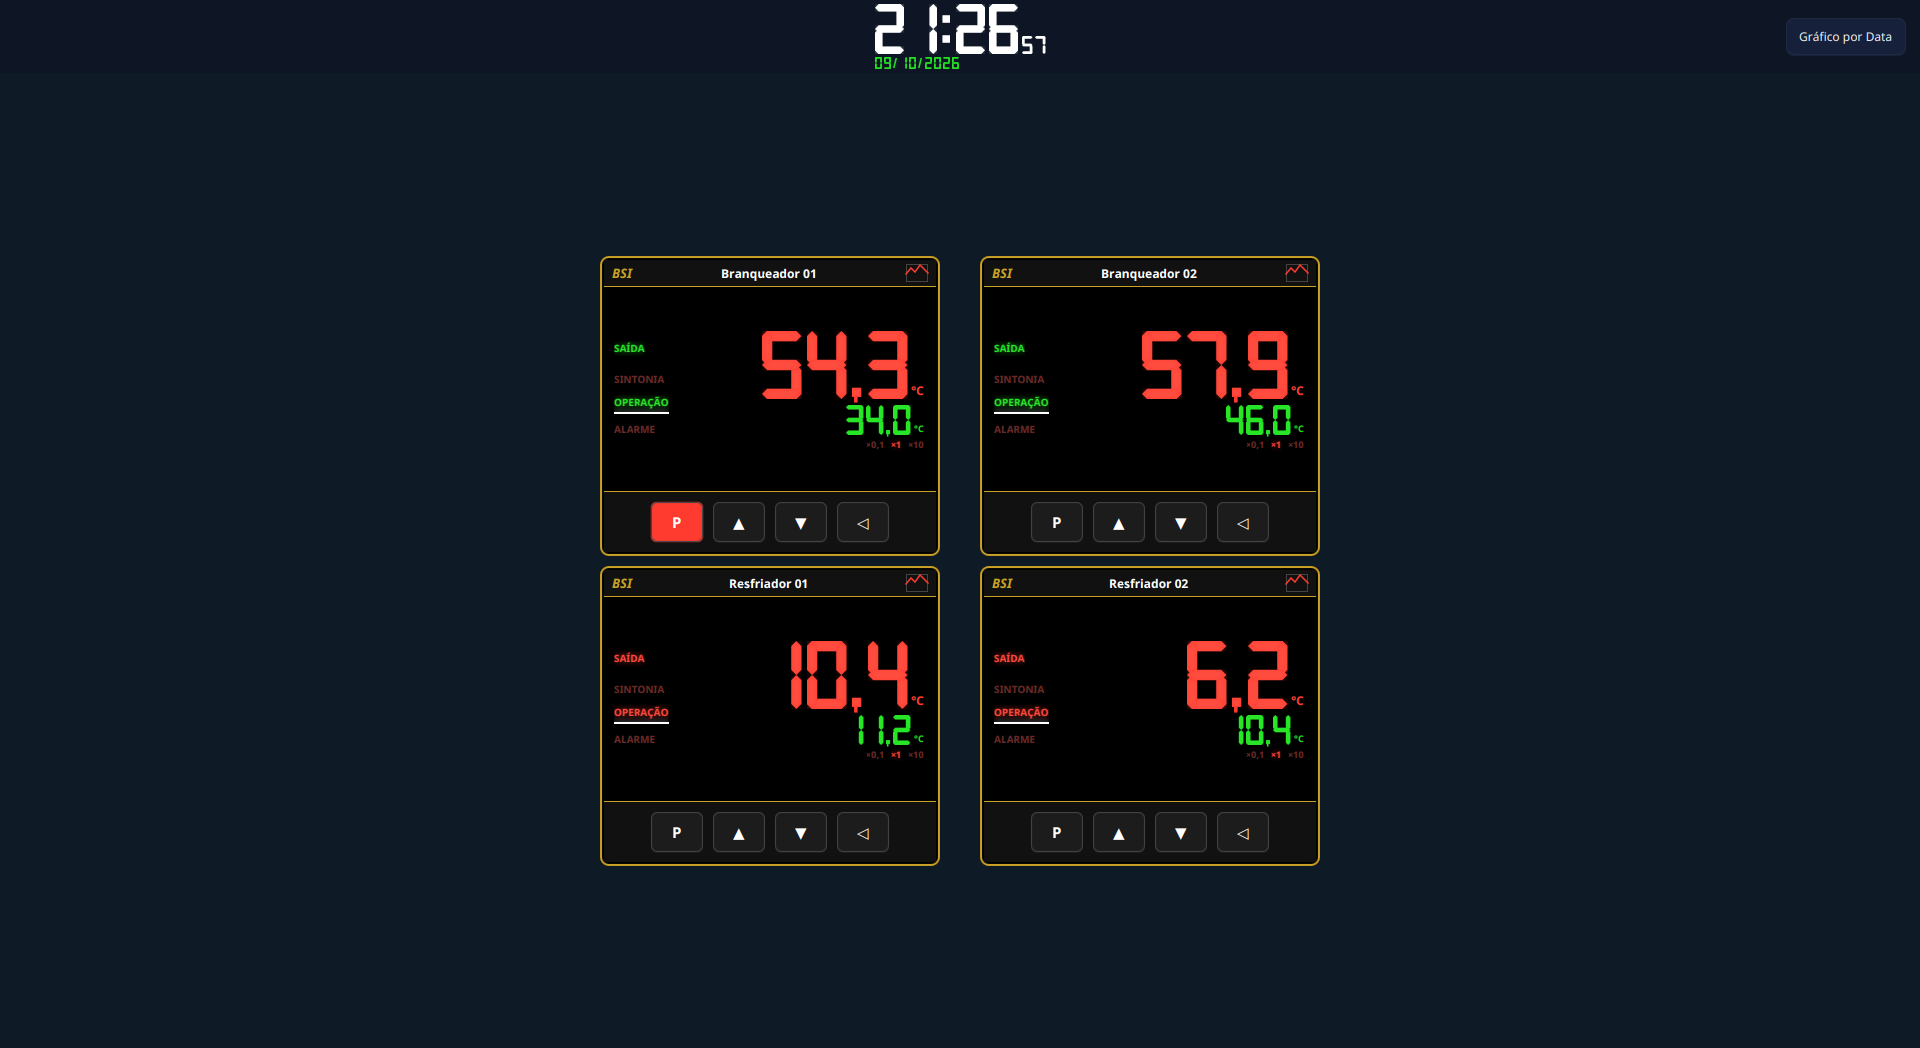
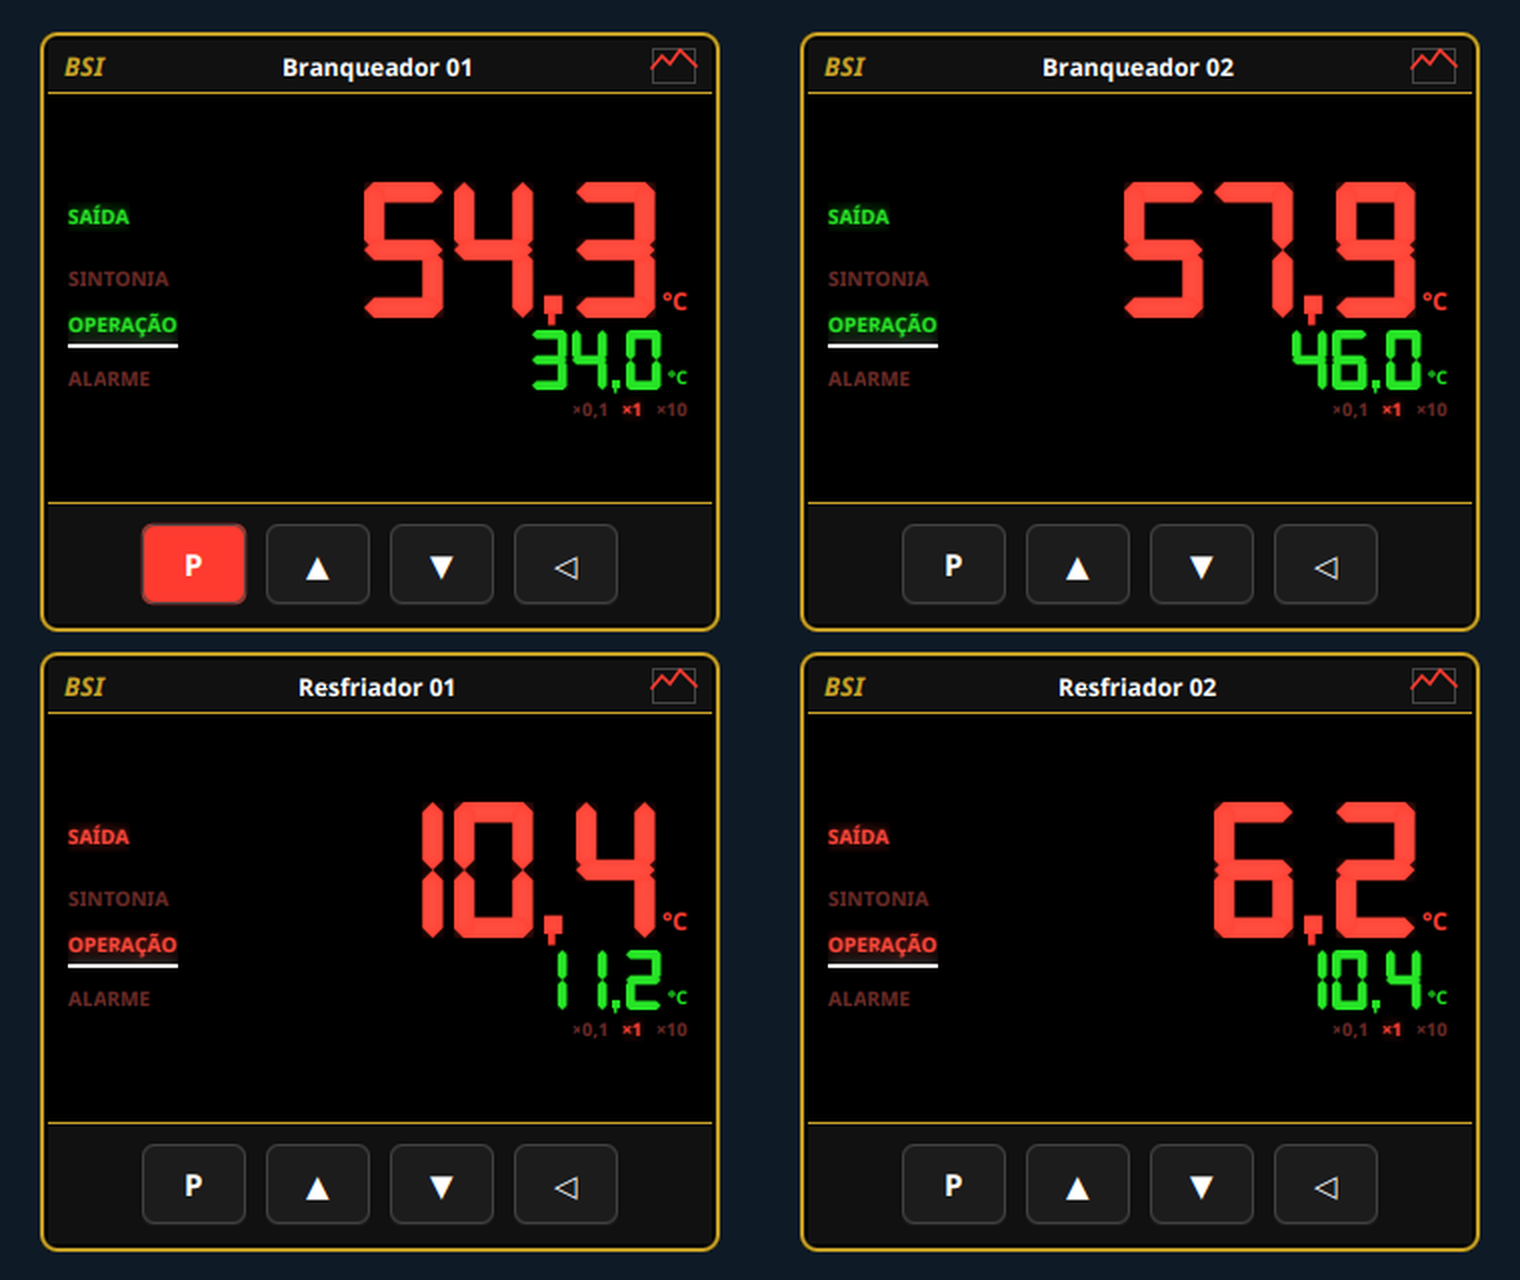
Polish: branqueador screenshot ampliada 2x (controles)
Recorta a area dos cartoes de controle e amplia 2x; atualiza width/height
das duas paginas para a nova proporcao.

diff --git a/sistemas/branqueador-lab.html b/sistemas/branqueador-lab.html
@@ -53,7 +53,7 @@
   </div>
 </section>
 
-<section class="block"><div class="wrap"><h2>O que já está documentado</h2><div class="two-col"><div class="card static"><h3>No Sistema</h3><ul><li><span>Cadastro de branqueadores junto aos demais equipamentos</span></li><li><span>Consulta do histórico de leituras gravadas</span></li></ul></div><div class="card static"><h3>No Processo</h3><ul><li><span>Cartão do equipamento com <strong>duas temperaturas</strong> monitoradas</span></li><li><span>Alarmes e bloqueio de fechamento da carga com base na maior das duas temperaturas</span></li><li><span>Perda de comunicação sinalizada no cartão</span></li></ul></div></div></div></section><section class="block"><div class="wrap"><h2>Tela</h2><p class="lead">Painel de controle dos branqueadores e resfriadores, com leitura de saída, sintonia, operação e alarme em tempo real.</p><div class="gallery"><figure class="full"><picture><source type="image/webp" srcset="../assets/telas/branqueador-controle.webp"><img src="../assets/telas/branqueador-controle.png" width="1920" height="1048" alt="Painel de controle BSI dos Branqueadores 01 e 02 e Resfriadores 01 e 02, com temperaturas de saída e operação em tempo real." loading="lazy"></picture><figcaption><b>Controle de Branqueadores.</b> Temperatura de saída e de operação de cada branqueador e resfriador, com ajuste direto pelo painel.</figcaption></figure></div></div></section>
+<section class="block"><div class="wrap"><h2>O que já está documentado</h2><div class="two-col"><div class="card static"><h3>No Sistema</h3><ul><li><span>Cadastro de branqueadores junto aos demais equipamentos</span></li><li><span>Consulta do histórico de leituras gravadas</span></li></ul></div><div class="card static"><h3>No Processo</h3><ul><li><span>Cartão do equipamento com <strong>duas temperaturas</strong> monitoradas</span></li><li><span>Alarmes e bloqueio de fechamento da carga com base na maior das duas temperaturas</span></li><li><span>Perda de comunicação sinalizada no cartão</span></li></ul></div></div></div></section><section class="block"><div class="wrap"><h2>Tela</h2><p class="lead">Painel de controle dos branqueadores e resfriadores, com leitura de saída, sintonia, operação e alarme em tempo real.</p><div class="gallery"><figure class="full"><picture><source type="image/webp" srcset="../assets/telas/branqueador-controle.webp"><img src="../assets/telas/branqueador-controle.png" width="1520" height="1280" alt="Painel de controle BSI dos Branqueadores 01 e 02 e Resfriadores 01 e 02, com temperaturas de saída e operação em tempo real." loading="lazy"></picture><figcaption><b>Controle de Branqueadores.</b> Temperatura de saída e de operação de cada branqueador e resfriador, com ajuste direto pelo painel.</figcaption></figure></div></div></section>
 
 </main>
 

diff --git a/sistemas/branqueador/index.html b/sistemas/branqueador/index.html
@@ -70,7 +70,7 @@
   </div>
 </section>
 
-<section class="block"><div class="wrap"><h2>O que já está documentado</h2><div class="two-col"><div class="card static"><h3>No Sistema</h3><ul><li><span>Cadastro de branqueadores junto aos demais equipamentos</span></li><li><span>Consulta do histórico de leituras gravadas</span></li></ul></div><div class="card static"><h3>No Processo</h3><ul><li><span>Cartão do equipamento com <strong>duas temperaturas</strong> monitoradas</span></li><li><span>Alarmes e bloqueio de fechamento da carga com base na maior das duas temperaturas</span></li><li><span>Perda de comunicação sinalizada no cartão</span></li></ul></div></div></div></section><section class="block"><div class="wrap"><h2>Tela</h2><p class="lead">Painel de controle dos branqueadores e resfriadores, com leitura de saída, sintonia, operação e alarme em tempo real.</p><div class="gallery"><figure class="full"><picture><source type="image/webp" srcset="/assets/telas/branqueador-controle.webp"><img src="/assets/telas/branqueador-controle.png" width="1920" height="1048" alt="Painel de controle BSI dos Branqueadores 01 e 02 e Resfriadores 01 e 02, com temperaturas de saída e operação em tempo real." loading="lazy"></picture><figcaption><b>Controle de Branqueadores.</b> Temperatura de saída e de operação de cada branqueador e resfriador, com ajuste direto pelo painel.</figcaption></figure></div></div></section>
+<section class="block"><div class="wrap"><h2>O que já está documentado</h2><div class="two-col"><div class="card static"><h3>No Sistema</h3><ul><li><span>Cadastro de branqueadores junto aos demais equipamentos</span></li><li><span>Consulta do histórico de leituras gravadas</span></li></ul></div><div class="card static"><h3>No Processo</h3><ul><li><span>Cartão do equipamento com <strong>duas temperaturas</strong> monitoradas</span></li><li><span>Alarmes e bloqueio de fechamento da carga com base na maior das duas temperaturas</span></li><li><span>Perda de comunicação sinalizada no cartão</span></li></ul></div></div></div></section><section class="block"><div class="wrap"><h2>Tela</h2><p class="lead">Painel de controle dos branqueadores e resfriadores, com leitura de saída, sintonia, operação e alarme em tempo real.</p><div class="gallery"><figure class="full"><picture><source type="image/webp" srcset="/assets/telas/branqueador-controle.webp"><img src="/assets/telas/branqueador-controle.png" width="1520" height="1280" alt="Painel de controle BSI dos Branqueadores 01 e 02 e Resfriadores 01 e 02, com temperaturas de saída e operação em tempo real." loading="lazy"></picture><figcaption><b>Controle de Branqueadores.</b> Temperatura de saída e de operação de cada branqueador e resfriador, com ajuste direto pelo painel.</figcaption></figure></div></div></section>
 
 </main>
 
